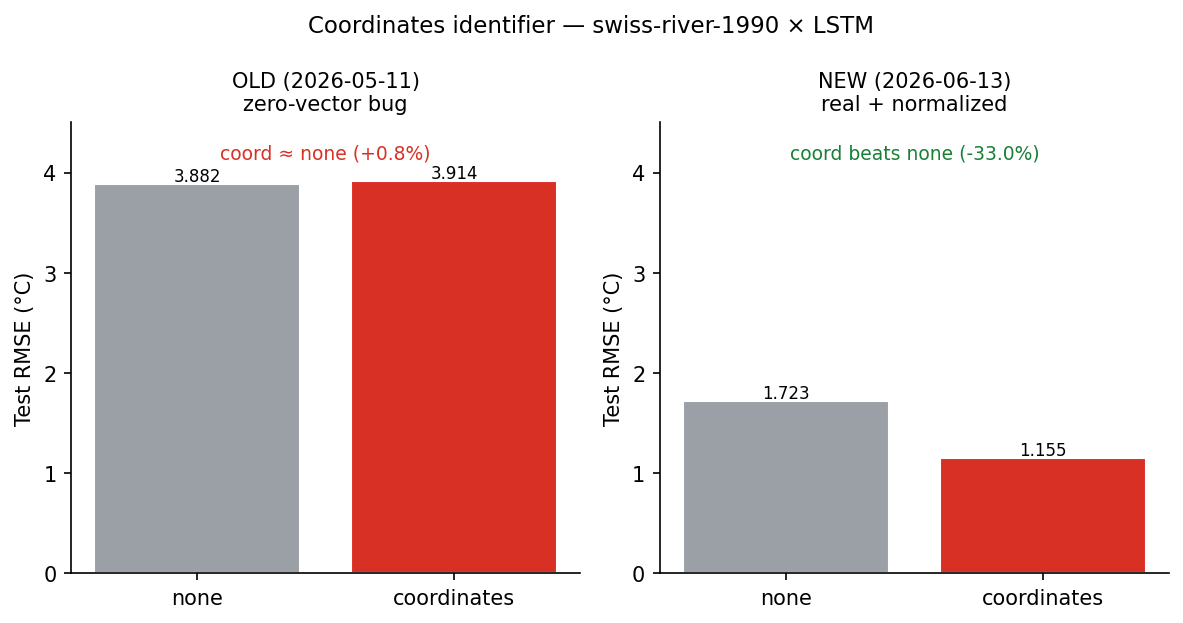
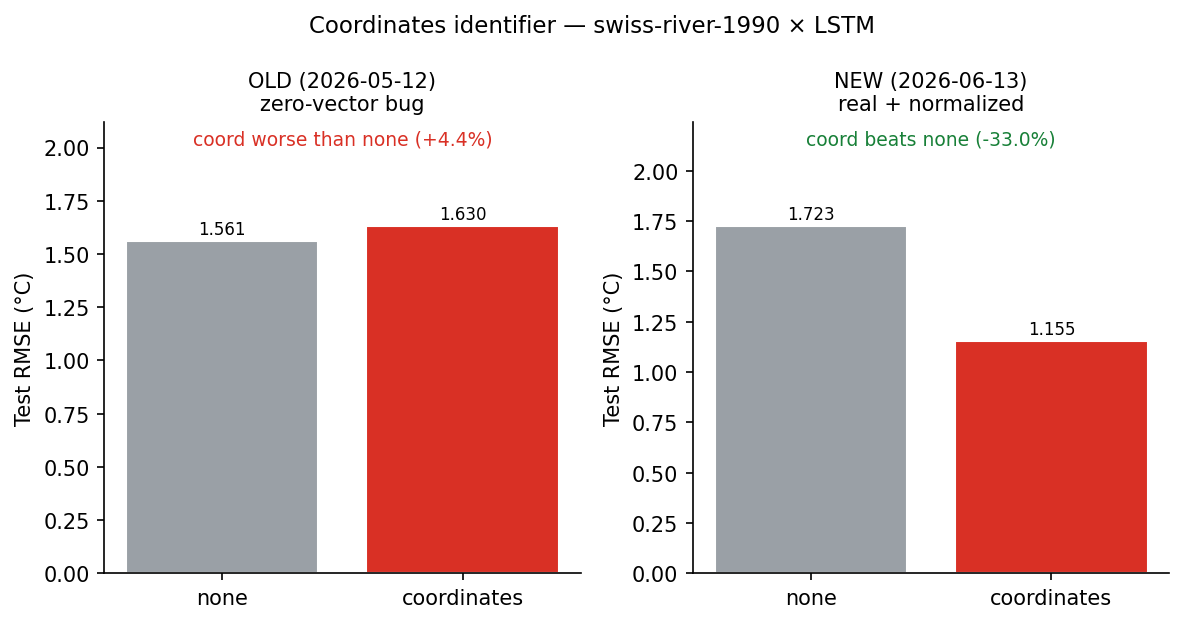
docs: retract 2026-05 coordinates results (task #29) + fix comparison baseline
The 2026-05-15 advisor slide reported coordinates as regressing the LSTM
(+4.1%). That was a zero-vector bug (topology never loaded under
graph_mode='none' -> make_entity_features zero-filled), not "unscaled
lat/lon". Annotate the slide in place (comment-don't-delete): top
correction banner + inline [R] retractions on the table cell, heatmap
column, §2(4), §5.1, and the next-steps line. Original snapshot text
preserved as the as-presented record.

Also fix the coordinate comparison figure/writeup to use the run the slide
actually came from (swissriver-lstm-REAL-20260512, whose onehot 1.1717
matches the slide's 1.171) instead of the under-trained fullmatrix-0511:
old coord 1.630 vs none 1.561 (+4.4%) -> new 1.155 vs 1.723 (-33%), same
denorm-RMSE units, comparable none levels.

diff --git a/tools/plot_swiss3dt_results.py b/tools/plot_swiss3dt_results.py
@@ -30,7 +30,11 @@ MODES = ['none', 'embedding', 'onehot', 'random', 'sinusoidal', 'coordinates']
 NEW_TAG = {'swiss-river-1990': 'swiss3dt-1990-20260612',
            'swiss-river-2010': 'swiss3dt-2010-20260612',
            'swiss-river-zurich': 'swiss3dt-zurich-20260612'}
-OLD_TAG = 'swissriver-fullmatrix-20260511'  # only swiss-river-1990 exists here
+# The 2026-05-15 advisor slide's numbers come from this run (its onehot
+# 1.1717 matches the slide's 1.171), NOT the earlier under-trained
+# fullmatrix-0511 (none 3.88). Use it so the coordinate comparison is on the
+# same footing as the slide.
+OLD_TAG = 'swissriver-lstm-REAL-20260512-084128'  # swiss-river-1990 only
 
 
 def rmse(tag: str, ds: str, mode: str) -> float | None:
@@ -88,7 +92,7 @@ new_none = new['swiss-river-1990']['none']
 fig2, (axL, axR) = plt.subplots(1, 2, figsize=(8, 4.2))
 for ax, (title, none_v, coord_v, sub) in zip(
     (axL, axR),
-    [('OLD (2026-05-11)\nzero-vector bug', old_none, old_coord, 'coord ≈ none (+%.1f%%)'),
+    [('OLD (2026-05-12)\nzero-vector bug', old_none, old_coord, 'coord worse than none (+%.1f%%)'),
      ('NEW (2026-06-13)\nreal + normalized', new_none, new_coord, 'coord beats none (%.1f%%)')],
 ):
     delta = (coord_v - none_v) / none_v * 100.0
@@ -96,11 +100,12 @@ for ax, (title, none_v, coord_v, sub) in zip(
                   color=['#9aa0a6', '#d93025'], edgecolor='white')
     ax.set_title(title, fontsize=10)
     ax.set_ylabel('Test RMSE (°C)')
-    ax.set_ylim(0, max(old_none, old_coord) * 1.15)
-    ax.text(0.5, 0.92, sub % delta, transform=ax.transAxes, ha='center', fontsize=9,
+    ax.set_ylim(0, max(none_v, coord_v) * 1.30)  # headroom for the annotation
+    ax.text(0.5, 0.95, sub % delta, transform=ax.transAxes, ha='center', fontsize=9,
             color=('#d93025' if delta > 0 else '#188038'))
     for b, v in zip(bars, [none_v, coord_v]):
-        ax.text(b.get_x() + b.get_width() / 2, v + 0.03, f'{v:.3f}', ha='center', fontsize=8)
+        ax.text(b.get_x() + b.get_width() / 2, v + max(none_v, coord_v) * 0.02,
+                f'{v:.3f}', ha='center', fontsize=8)
     for sp in ('top', 'right'):
         ax.spines[sp].set_visible(False)
 fig2.suptitle('Coordinates identifier — swiss-river-1990 × LSTM', fontsize=11)

diff --git a/docs/research/2026-05-15-entity-id-progress-slide.md b/docs/research/2026-05-15-entity-id-progress-slide.md
@@ -2,6 +2,21 @@
 
 _Advisor update · 2026-05-15 · single-slide summary (+ speaker notes)_
 
+> ⚠️ **Correction (2026-06-13) — `coordinates` rows are RETRACTED.**
+> This snapshot's `coordinates` results (the `🔴 +4.1 %` LSTM cell in §2,
+> its heatmap column, and §5.1) are **invalid**: a bug meant the coordinate
+> identifier was fed an
+> all-**zero vector** (the dataset topology that holds station `(x, y)` was
+> never loaded under the matrix default `graph_mode='none'`, so
+> `make_entity_features` silently zero-filled — measured `abs-max = 0.0` on
+> 2026-06-11). The "raw lat/lon as unscaled features" explanation below is
+> therefore also wrong — no coordinate ever reached the model. After the fix
+> (real, min-max-normalized coordinates, commit `421f1e7`), `coordinates`
+> **helps** the LSTM by ≈ −33 % vs `none` (1.155 vs 1.723 on 1990), not
+> +4 %. The non-coordinate rows stand. Full corrected results:
+> [`2026-06-13-swiss3dt-results.md`](2026-06-13-swiss3dt-results.md).
+> Original text below is preserved unedited as the as-presented record.
+
 > **One-line takeaway:** On Swiss-River-1990, attaching a near-zero-cost entity
 > identifier to a plain LSTM cuts per-station RMSE by **up to 32 %** and lets a
 > 55 K-parameter LSTM **outperform a 410 K-parameter PatchTST transformer** —
@@ -35,7 +50,7 @@ that row.**
 
 | dataset | model (split) | `none` baseline | embedding | onehot | sinusoidal | random | coordinates |
 |---|---|---|---|---|---|---|---|
-| **swiss-river** | LSTM (per_entity) | 1.725 °C | −21.4 % | 🟢 **−32.1 %** | −30.9 % | −31.0 % | 🔴 +4.1 % |
+| **swiss-river** | LSTM (per_entity) | 1.725 °C | −21.4 % | 🟢 **−32.1 %** | −30.9 % | −31.0 % | 🔴 +4.1 % ⚠️[R] |
 | **swiss-river** | PatchTST (multi-ch) | 1.382 °C | 🟢 **−4.7 %** | −1.0 % | −1.2 % | −0.6 % | −0.1 % |
 | **swiss-river** | DLinear (multi-ch) | 1.287 °C | **−0.7 %** | −0.7 % | −0.4 % | −0.4 % | −0.5 % |
 | **traffic** | LSTM (multi-ch) | 0.0280 † | 🟢 **−4.5 %** | −1.7 % | _deferred_ | _deferred_ | N/A |
@@ -50,7 +65,15 @@ occupancy fraction for traffic; ‡ standardised power for electricity. Absolute
 RMSE units differ by dataset — the **Δ%** column is the cross-comparable
 signal._ `coordinates` is only meaningful for swiss-river (has lat/lon).
 
+> ⚠️[R] **RETRACTED (2026-06-13):** the `coordinates +4.1 %` cell is a
+> zero-vector artifact (see the correction banner at the top). Corrected:
+> `coordinates` ≈ −33 % vs `none` on swiss-river-1990.
+
 ![results heatmap](figures/entity-id-2026-05-15/results-heatmap-all.png)
+
+> ⚠️[R] The **`coordinates` column** of this heatmap is invalid (zero-vector
+> bug, see top banner). Read it with that column greyed out; the corrected
+> coordinate bars are in `2026-06-13-swiss3dt-results.md`.
 
 **Cross-dataset signal (read the heatmap):**
 
@@ -66,6 +89,9 @@ signal._ `coordinates` is only meaningful for swiss-river (has lat/lon).
    identity signal.
 4. **`coordinates` regresses LSTM** (+4.1 %) — raw lat/lon as unscaled features
    acts as noise. Needs normalisation / a learned geo-encoder.
+   > ⚠️[R] **RETRACTED (2026-06-13):** wrong — the input was an all-zero
+   > vector (bug), not "unscaled lat/lon". Fixed → `coordinates` **helps**
+   > (≈ −33 %). See top banner + `2026-06-13-swiss3dt-results.md`.
 5. **`traffic × PatchTST × onehot` essentially neutral (+0.2 %).** Now that the
    cell finished, the pattern holds: PatchTST gains only via `embedding`
    (native `add_after_patch`); transparent identifiers on PatchTST barely move
@@ -144,6 +170,10 @@ largely redundant (PatchTST/DLinear ≤5 % RMSE).
 1. **`coordinates` hurts LSTM (+4 % RMSE).** Raw lat/lon fed as two unscaled
    features — large-magnitude, low-information columns that act as noise. Needs
    normalisation / a learned geo-encoder before it can help. *(actionable fix)*
+   > ⚠️[R] **RETRACTED (2026-06-13):** the diagnosis was wrong — coordinates
+   > were never loaded (zero vector), not "unscaled". The actionable fix
+   > (load topology + min-max normalize, `421f1e7`) is done; `coordinates`
+   > now helps the LSTM (≈ −33 %).
 2. **PatchTST & DLinear barely move (≤5 % RMSE).** In `multi_channel` split
    every station is already its own channel, so channel identity is *implicit*
    in the layout — an explicit identifier is largely redundant (best case is
@@ -165,7 +195,10 @@ largely redundant (PatchTST/DLinear ≤5 % RMSE).
 - **Controlled comparison:** re-run PatchTST/DLinear in `per_entity` to remove
   the split-mode confound.
 - **Multi-seed** (≥3) for the headline cells → significance bands.
-- **Fix `coordinates`:** normalise + try a small geo-MLP encoder.
+- ~~**Fix `coordinates`:** normalise + try a small geo-MLP encoder.~~
+  ✅ **Done (2026-06-13):** the regression was a zero-vector bug, not
+  scaling; fixed by loading topology + min-max normalization (`421f1e7`).
+  `coordinates` now helps (≈ −33 %).
 - Ablation: parameter-matched baseline (does the `EntityWrapper`'s extra linear
   layer explain part of the embedding gain?).
 

diff --git a/docs/research/2026-06-13-swiss3dt-results.md b/docs/research/2026-06-13-swiss3dt-results.md
@@ -58,14 +58,12 @@ padding channels).
 ![Coordinates old vs new](figures/swiss3dt-2026-06-13/swiss3dt-coordinates-fix.png)
 
 The 2026-05 matrix reported `coordinates` as **regressing** the LSTM. On
-swiss-river-1990 × LSTM the old run gave coord 3.914 vs none 3.882 (+0.8 %
-— i.e. no benefit, slight harm). The new run gives coord 1.155 vs none
-1.723 (−33 % — a clear benefit).
-
-The old absolute numbers are higher across the board (old none 3.882 vs new
-1.723) because of unrelated training-setup changes (batch_size 8 → 32, new
-HPO search space). The **relative** coordinate effect is what flipped, and
-the cause is a fixed bug:
+swiss-river-1990 × LSTM the old run (`swissriver-lstm-REAL-20260512`, the
+batch the advisor slide used — its onehot 1.1717 matches the slide's 1.171)
+gave coord 1.630 vs none 1.561 (**+4.4 %** — worse than no identifier). The
+new run gives coord 1.155 vs none 1.723 (**−33 %** — a clear benefit). The
+two `none` baselines are at a similar level (1.561 vs 1.723), so the flip is
+in the coordinate effect itself, and the cause is a fixed bug:
 
 - **Old = zero-vector bug.** The identifier-matrix default is
   `graph_mode='none'`, and the old code only loaded the dataset topology